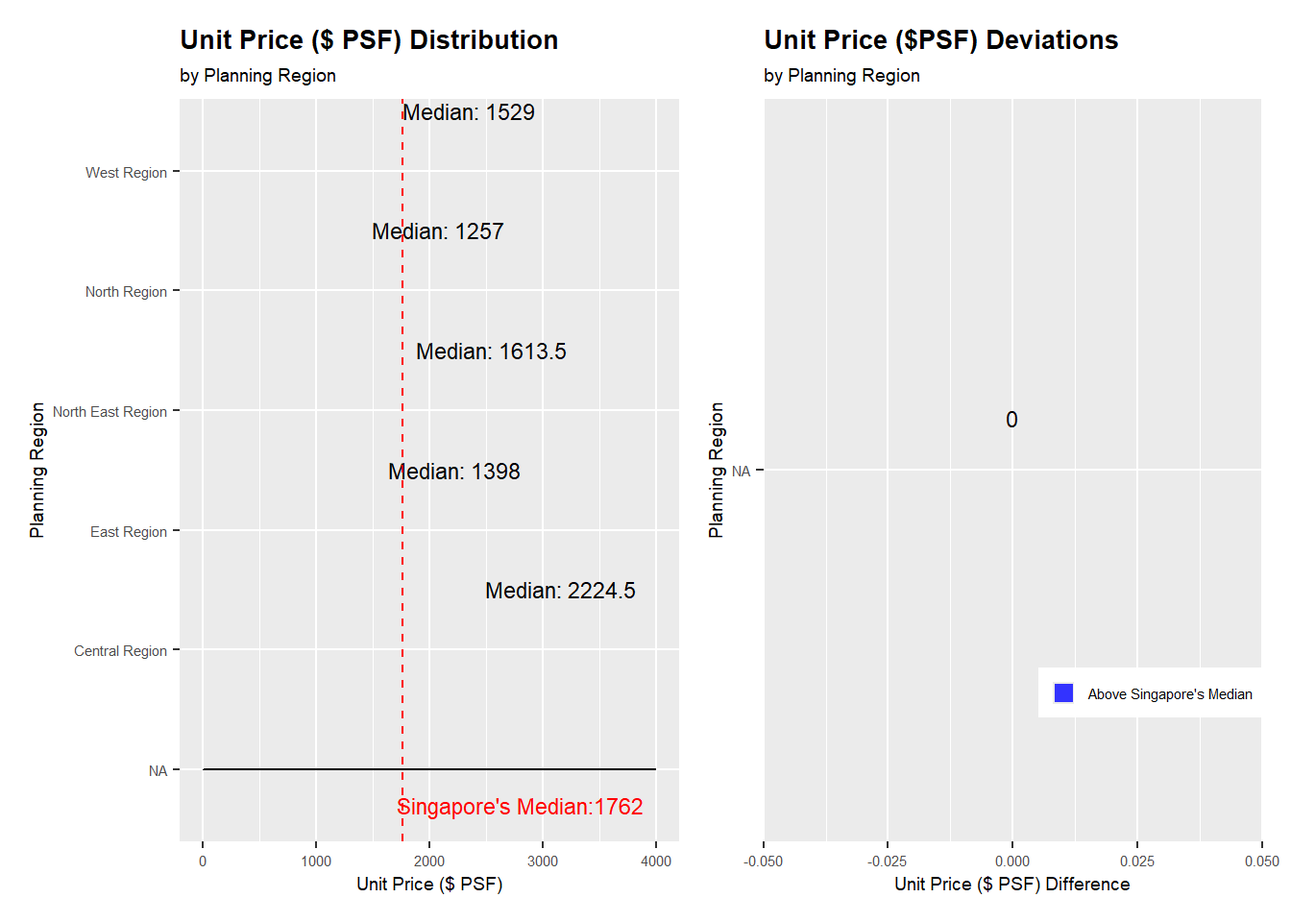
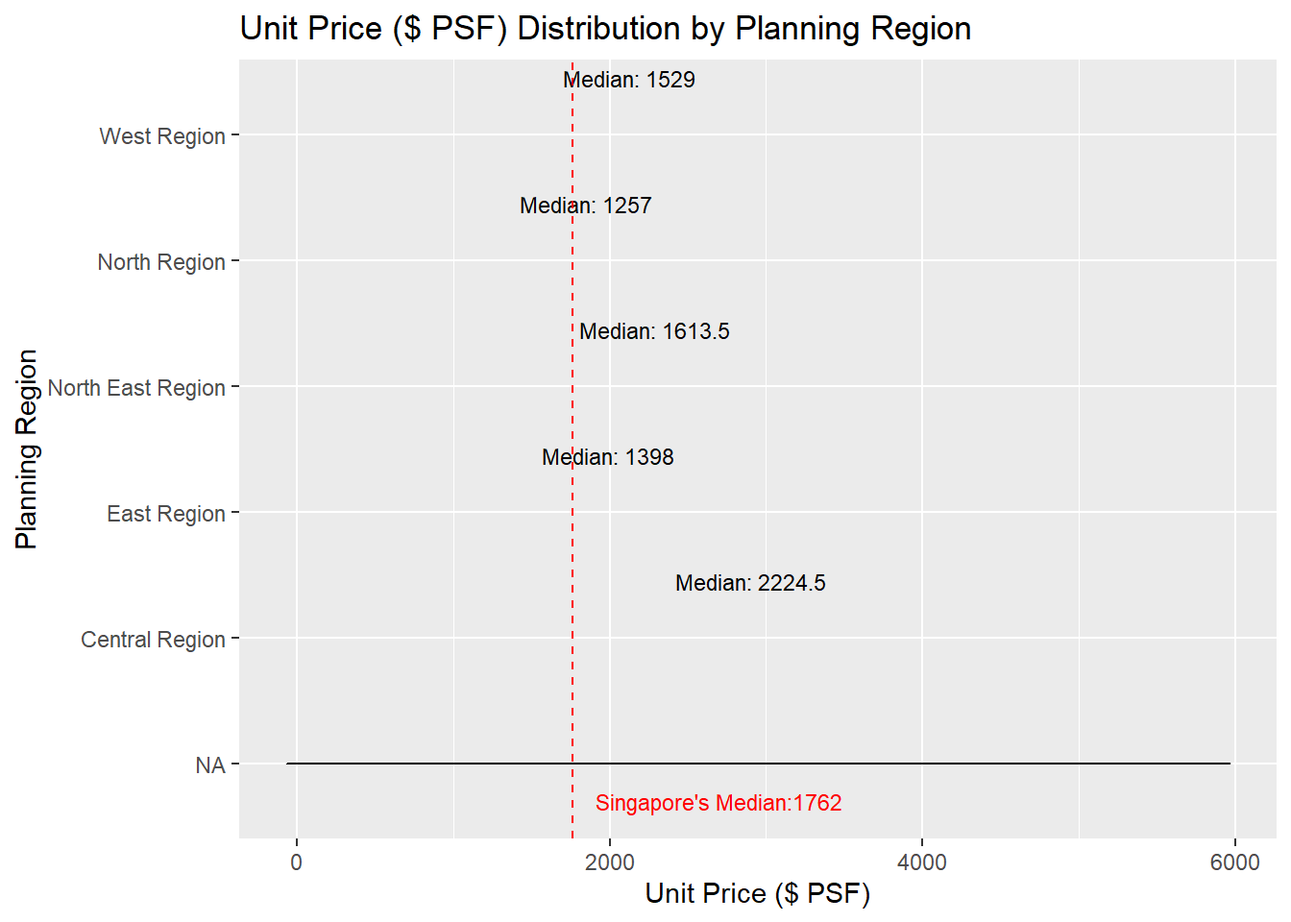
commit

diff --git a/_site/Take-home Exercise/Take-home_Ex02/Take-home_Ex02.html b/_site/Take-home Exercise/Take-home_Ex02/Take-home_Ex02.html
@@ -568,84 +568,71 @@ pre > code.sourceCode > span > a:first-child::before { text-decoration: underlin
 <span id="cb6-13"><a href="#cb6-13" aria-hidden="true" tabindex="-1"></a>                                  <span class="st">"West Region"</span> <span class="ot">=</span> <span class="st">"West"</span></span>
 <span id="cb6-14"><a href="#cb6-14" aria-hidden="true" tabindex="-1"></a>                                  ))</span>
 <span id="cb6-15"><a href="#cb6-15" aria-hidden="true" tabindex="-1"></a></span>
-<span id="cb6-16"><a href="#cb6-16" aria-hidden="true" tabindex="-1"></a><span class="co"># Change order of the Region</span></span>
-<span id="cb6-17"><a href="#cb6-17" aria-hidden="true" tabindex="-1"></a>combined_ds <span class="ot">&lt;-</span> combined_ds <span class="sc">%&gt;%</span></span>
-<span id="cb6-18"><a href="#cb6-18" aria-hidden="true" tabindex="-1"></a>  <span class="fu">mutate</span>(<span class="st">`</span><span class="at">Planning Region</span><span class="st">`</span> <span class="ot">=</span> <span class="fu">factor</span>(<span class="st">`</span><span class="at">Planning Region</span><span class="st">`</span>, <span class="at">levels =</span> median_values<span class="sc">$</span><span class="st">`</span><span class="at">Planning Region</span><span class="st">`</span>[<span class="fu">order</span>(median_values<span class="sc">$</span>median_value)]))</span>
+<span id="cb6-16"><a href="#cb6-16" aria-hidden="true" tabindex="-1"></a>combined_ds <span class="ot">&lt;-</span> combined_ds <span class="sc">%&gt;%</span></span>
+<span id="cb6-17"><a href="#cb6-17" aria-hidden="true" tabindex="-1"></a>  <span class="fu">mutate</span>(<span class="st">`</span><span class="at">Planning Region</span><span class="st">`</span> <span class="ot">=</span> <span class="fu">factor</span>(<span class="st">`</span><span class="at">Planning Region</span><span class="st">`</span>, <span class="at">levels =</span> median_values<span class="sc">$</span><span class="st">`</span><span class="at">Planning Region</span><span class="st">`</span>[<span class="fu">order</span>(median_values<span class="sc">$</span>median_value)]))</span>
+<span id="cb6-18"><a href="#cb6-18" aria-hidden="true" tabindex="-1"></a></span>
 <span id="cb6-19"><a href="#cb6-19" aria-hidden="true" tabindex="-1"></a></span>
-<span id="cb6-20"><a href="#cb6-20" aria-hidden="true" tabindex="-1"></a></span>
-<span id="cb6-21"><a href="#cb6-21" aria-hidden="true" tabindex="-1"></a>p1 <span class="ot">&lt;-</span><span class="fu">ggplot</span>(combined_ds, </span>
-<span id="cb6-22"><a href="#cb6-22" aria-hidden="true" tabindex="-1"></a>       <span class="fu">aes</span>(<span class="at">x =</span> <span class="st">`</span><span class="at">Unit Price ($ PSF)</span><span class="st">`</span>, </span>
-<span id="cb6-23"><a href="#cb6-23" aria-hidden="true" tabindex="-1"></a>           <span class="at">y =</span> <span class="st">`</span><span class="at">Planning Region</span><span class="st">`</span>, </span>
-<span id="cb6-24"><a href="#cb6-24" aria-hidden="true" tabindex="-1"></a>           )) <span class="sc">+</span></span>
-<span id="cb6-25"><a href="#cb6-25" aria-hidden="true" tabindex="-1"></a>   <span class="fu">geom_density_ridges</span>(<span class="at">scale =</span> <span class="fl">0.9</span>,</span>
-<span id="cb6-26"><a href="#cb6-26" aria-hidden="true" tabindex="-1"></a>                       <span class="at">alpha =</span> <span class="fl">0.2</span>, </span>
-<span id="cb6-27"><a href="#cb6-27" aria-hidden="true" tabindex="-1"></a>                       <span class="at">quantile_lines =</span> <span class="cn">TRUE</span>, </span>
-<span id="cb6-28"><a href="#cb6-28" aria-hidden="true" tabindex="-1"></a>                       <span class="at">quantile_fun =</span> <span class="cf">function</span>(x, ...) <span class="fu">median</span>(x)) <span class="sc">+</span></span>
-<span id="cb6-29"><a href="#cb6-29" aria-hidden="true" tabindex="-1"></a>    <span class="fu">geom_text</span>(<span class="at">data =</span> median_values, </span>
-<span id="cb6-30"><a href="#cb6-30" aria-hidden="true" tabindex="-1"></a>            <span class="fu">aes</span>(<span class="at">x =</span> median_value, </span>
-<span id="cb6-31"><a href="#cb6-31" aria-hidden="true" tabindex="-1"></a>                <span class="at">y =</span> <span class="st">`</span><span class="at">Planning Region</span><span class="st">`</span>, </span>
-<span id="cb6-32"><a href="#cb6-32" aria-hidden="true" tabindex="-1"></a>                <span class="at">label =</span> <span class="fu">paste</span>(<span class="st">"Median:"</span>, </span>
-<span id="cb6-33"><a href="#cb6-33" aria-hidden="true" tabindex="-1"></a>                              <span class="fu">round</span>(median_value, <span class="dv">2</span>))),</span>
-<span id="cb6-34"><a href="#cb6-34" aria-hidden="true" tabindex="-1"></a>            <span class="at">hjust =</span> <span class="sc">-</span><span class="fl">0.2</span>, <span class="at">vjust =</span> <span class="sc">-</span><span class="dv">3</span>, <span class="at">color =</span> <span class="st">"black"</span>, <span class="at">size =</span> <span class="dv">3</span>) <span class="sc">+</span></span>
-<span id="cb6-35"><a href="#cb6-35" aria-hidden="true" tabindex="-1"></a>  <span class="fu">labs</span>(<span class="at">title =</span> <span class="st">"Unit Price ($ PSF) Distribution"</span>,</span>
-<span id="cb6-36"><a href="#cb6-36" aria-hidden="true" tabindex="-1"></a>       <span class="at">subtitle =</span> <span class="st">"by Planning Region"</span>,</span>
-<span id="cb6-37"><a href="#cb6-37" aria-hidden="true" tabindex="-1"></a>       <span class="at">x =</span> <span class="st">"Unit Price ($ PSF)"</span>,</span>
-<span id="cb6-38"><a href="#cb6-38" aria-hidden="true" tabindex="-1"></a>       <span class="at">y =</span> <span class="st">"Planning Region"</span>) <span class="sc">+</span></span>
-<span id="cb6-39"><a href="#cb6-39" aria-hidden="true" tabindex="-1"></a>  <span class="fu">geom_vline</span>(<span class="fu">aes</span>(<span class="at">xintercept =</span> <span class="fu">median</span>(<span class="st">`</span><span class="at">Unit Price ($ PSF)</span><span class="st">`</span>)), </span>
-<span id="cb6-40"><a href="#cb6-40" aria-hidden="true" tabindex="-1"></a>             <span class="at">col=</span><span class="st">"red"</span>, </span>
-<span id="cb6-41"><a href="#cb6-41" aria-hidden="true" tabindex="-1"></a>             <span class="at">linewidth=</span><span class="fl">0.5</span>, <span class="at">linetype =</span> <span class="st">"dashed"</span>) <span class="sc">+</span></span>
-<span id="cb6-42"><a href="#cb6-42" aria-hidden="true" tabindex="-1"></a>  <span class="fu">annotate</span>(<span class="st">"text"</span>, </span>
-<span id="cb6-43"><a href="#cb6-43" aria-hidden="true" tabindex="-1"></a>           <span class="at">x=</span><span class="dv">2800</span>, </span>
-<span id="cb6-44"><a href="#cb6-44" aria-hidden="true" tabindex="-1"></a>           <span class="at">y=</span><span class="fl">0.7</span>, </span>
-<span id="cb6-45"><a href="#cb6-45" aria-hidden="true" tabindex="-1"></a>           <span class="at">label=</span><span class="fu">paste0</span>(<span class="st">"Singapore's Median:"</span>,</span>
-<span id="cb6-46"><a href="#cb6-46" aria-hidden="true" tabindex="-1"></a>                        <span class="fu">median</span>(combined_ds<span class="sc">$</span><span class="st">`</span><span class="at">Unit Price ($ PSF)</span><span class="st">`</span>)), </span>
-<span id="cb6-47"><a href="#cb6-47" aria-hidden="true" tabindex="-1"></a>           <span class="at">size=</span><span class="dv">3</span>, <span class="at">color=</span><span class="st">"red"</span>) <span class="sc">+</span></span>
-<span id="cb6-48"><a href="#cb6-48" aria-hidden="true" tabindex="-1"></a><span class="fu">scale_x_continuous</span>(<span class="at">name =</span> <span class="st">"Unit Price ($ PSF) difference"</span>,<span class="at">breaks =</span> <span class="fu">c</span>(<span class="dv">0</span>,<span class="dv">1000</span>,<span class="dv">2000</span>,<span class="dv">3000</span>,<span class="dv">4000</span>,<span class="dv">5000</span>,<span class="dv">6000</span>)) <span class="sc">+</span></span>
-<span id="cb6-49"><a href="#cb6-49" aria-hidden="true" tabindex="-1"></a>  <span class="fu">guides</span>(<span class="at">fill =</span> <span class="cn">FALSE</span>) <span class="sc">+</span></span>
-<span id="cb6-50"><a href="#cb6-50" aria-hidden="true" tabindex="-1"></a>  <span class="fu">xlim</span>(<span class="dv">0</span>, <span class="dv">4000</span>) <span class="sc">+</span></span>
-<span id="cb6-51"><a href="#cb6-51" aria-hidden="true" tabindex="-1"></a>    <span class="fu">theme</span>(<span class="at">legend.position =</span> <span class="st">"None"</span>, <span class="at">text =</span> <span class="fu">element_text</span>(<span class="at">size =</span> <span class="dv">8</span>), <span class="at">plot.title =</span> <span class="fu">element_text</span>(<span class="at">size =</span> <span class="dv">10</span>, <span class="at">face =</span> <span class="st">"bold"</span>))  <span class="sc">+</span></span>
-<span id="cb6-52"><a href="#cb6-52" aria-hidden="true" tabindex="-1"></a>  <span class="fu">theme</span>(<span class="at">text =</span> <span class="fu">element_text</span>(<span class="at">size =</span> <span class="dv">7</span>),</span>
-<span id="cb6-53"><a href="#cb6-53" aria-hidden="true" tabindex="-1"></a>        <span class="at">legend.title =</span> <span class="fu">element_blank</span>(),</span>
-<span id="cb6-54"><a href="#cb6-54" aria-hidden="true" tabindex="-1"></a>        <span class="at">legend.position =</span> <span class="fu">c</span>(<span class="fl">0.8</span>, <span class="fl">0.2</span>),</span>
-<span id="cb6-55"><a href="#cb6-55" aria-hidden="true" tabindex="-1"></a>        <span class="at">legend.key.size =</span> <span class="fu">unit</span>(<span class="fl">0.3</span>, <span class="st">'cm'</span>),</span>
-<span id="cb6-56"><a href="#cb6-56" aria-hidden="true" tabindex="-1"></a>        <span class="at">legend.key.height =</span> <span class="fu">unit</span>(<span class="fl">0.3</span>, <span class="st">'cm'</span>),</span>
-<span id="cb6-57"><a href="#cb6-57" aria-hidden="true" tabindex="-1"></a>        <span class="at">legend.key.width =</span> <span class="fu">unit</span>(<span class="fl">0.3</span>, <span class="st">'cm'</span>))</span>
-<span id="cb6-58"><a href="#cb6-58" aria-hidden="true" tabindex="-1"></a></span>
-<span id="cb6-59"><a href="#cb6-59" aria-hidden="true" tabindex="-1"></a><span class="co"># Classifying the Median into Above and Below Singapore's Median</span></span>
-<span id="cb6-60"><a href="#cb6-60" aria-hidden="true" tabindex="-1"></a>df_Aavg <span class="ot">&lt;-</span> combined_ds <span class="sc">%&gt;%</span></span>
-<span id="cb6-61"><a href="#cb6-61" aria-hidden="true" tabindex="-1"></a>  <span class="fu">group_by</span>(<span class="st">`</span><span class="at">Planning Region</span><span class="st">`</span>) <span class="sc">%&gt;%</span></span>
-<span id="cb6-62"><a href="#cb6-62" aria-hidden="true" tabindex="-1"></a>  <span class="fu">summarise</span>(<span class="at">avg_Aprice =</span> <span class="fu">median</span>(<span class="st">`</span><span class="at">Unit Price ($ PSF)</span><span class="st">`</span>))</span>
-<span id="cb6-63"><a href="#cb6-63" aria-hidden="true" tabindex="-1"></a></span>
-<span id="cb6-64"><a href="#cb6-64" aria-hidden="true" tabindex="-1"></a>p_z <span class="ot">&lt;-</span> <span class="fu">round</span>((df_Aavg<span class="sc">$</span>avg_Aprice <span class="sc">-</span> <span class="fu">median</span>(combined_ds<span class="sc">$</span><span class="st">`</span><span class="at">Unit Price ($ PSF)</span><span class="st">`</span>)), <span class="dv">2</span>)</span>
-<span id="cb6-65"><a href="#cb6-65" aria-hidden="true" tabindex="-1"></a>df_Aavg<span class="sc">$</span>p_ztype <span class="ot">&lt;-</span> <span class="fu">ifelse</span>(p_z <span class="sc">&lt;</span> <span class="dv">0</span>, <span class="st">"below"</span>, <span class="st">"above"</span>)</span>
-<span id="cb6-66"><a href="#cb6-66" aria-hidden="true" tabindex="-1"></a>df_Aavg <span class="ot">&lt;-</span> df_Aavg[<span class="fu">order</span>(p_z), ]</span>
-<span id="cb6-67"><a href="#cb6-67" aria-hidden="true" tabindex="-1"></a></span>
-<span id="cb6-68"><a href="#cb6-68" aria-hidden="true" tabindex="-1"></a>df_Aavg<span class="sc">$</span><span class="st">`</span><span class="at">Planning Region</span><span class="st">`</span> <span class="ot">&lt;-</span> <span class="fu">factor</span>(df_Aavg<span class="sc">$</span><span class="st">`</span><span class="at">Planning Region</span><span class="st">`</span>, <span class="at">levels =</span> df_Aavg<span class="sc">$</span><span class="st">`</span><span class="at">Planning Region</span><span class="st">`</span>)</span>
-<span id="cb6-69"><a href="#cb6-69" aria-hidden="true" tabindex="-1"></a></span>
-<span id="cb6-70"><a href="#cb6-70" aria-hidden="true" tabindex="-1"></a>p2 <span class="ot">&lt;-</span> <span class="fu">ggplot</span>(df_Aavg, <span class="fu">aes</span>(<span class="at">x =</span> <span class="st">`</span><span class="at">Planning Region</span><span class="st">`</span>, <span class="at">y =</span> p_z, <span class="at">label =</span> p_z)) <span class="sc">+</span></span>
-<span id="cb6-71"><a href="#cb6-71" aria-hidden="true" tabindex="-1"></a>  <span class="fu">geom_bar</span>(<span class="at">stat =</span> <span class="st">"identity"</span>, <span class="fu">aes</span>(<span class="at">fill =</span> <span class="fu">factor</span>(p_ztype)), <span class="at">position =</span> <span class="fu">position_dodge2</span>(<span class="at">width =</span> <span class="dv">2</span>), <span class="at">width =</span> <span class="fl">0.5</span>) <span class="sc">+</span></span>
-<span id="cb6-72"><a href="#cb6-72" aria-hidden="true" tabindex="-1"></a>  <span class="fu">scale_fill_manual</span>(<span class="at">name =</span> <span class="st">"Price Deviation"</span>, <span class="at">labels =</span> <span class="fu">c</span>(<span class="st">"Above Singapore's Median"</span>, <span class="st">"Below Singapore's Median"</span>), <span class="at">values =</span> <span class="fu">c</span>(<span class="st">"below"</span> <span class="ot">=</span> <span class="st">"#FF6666"</span>, <span class="st">"above"</span> <span class="ot">=</span> <span class="st">"#3333FF"</span>)) <span class="sc">+</span></span>
-<span id="cb6-73"><a href="#cb6-73" aria-hidden="true" tabindex="-1"></a>  <span class="fu">labs</span>(<span class="at">title =</span> <span class="st">"Unit Price ($PSF) Deviations"</span>, <span class="at">y =</span> <span class="st">"Unit Price ($ PSF) Difference"</span>, <span class="at">subtitle =</span> <span class="st">"by Planning Region"</span>) <span class="sc">+</span></span>
-<span id="cb6-74"><a href="#cb6-74" aria-hidden="true" tabindex="-1"></a>  <span class="fu">coord_flip</span>() <span class="sc">+</span></span>
-<span id="cb6-75"><a href="#cb6-75" aria-hidden="true" tabindex="-1"></a>  <span class="fu">theme</span>(<span class="at">legend.position =</span> <span class="st">"None"</span>, <span class="at">text =</span> <span class="fu">element_text</span>(<span class="at">size =</span> <span class="dv">8</span>), <span class="at">plot.title =</span> <span class="fu">element_text</span>(<span class="at">size =</span> <span class="dv">10</span>, <span class="at">face =</span> <span class="st">"bold"</span>))  <span class="sc">+</span></span>
-<span id="cb6-76"><a href="#cb6-76" aria-hidden="true" tabindex="-1"></a>  <span class="fu">theme</span>(<span class="at">text =</span> <span class="fu">element_text</span>(<span class="at">size =</span> <span class="dv">7</span>),</span>
-<span id="cb6-77"><a href="#cb6-77" aria-hidden="true" tabindex="-1"></a>        <span class="at">legend.title =</span> <span class="fu">element_blank</span>(),</span>
-<span id="cb6-78"><a href="#cb6-78" aria-hidden="true" tabindex="-1"></a>        <span class="at">legend.position =</span> <span class="fu">c</span>(<span class="fl">0.78</span>, <span class="fl">0.2</span>),</span>
-<span id="cb6-79"><a href="#cb6-79" aria-hidden="true" tabindex="-1"></a>        <span class="at">legend.key.size =</span> <span class="fu">unit</span>(<span class="fl">0.3</span>, <span class="st">'cm'</span>),</span>
-<span id="cb6-80"><a href="#cb6-80" aria-hidden="true" tabindex="-1"></a>        <span class="at">legend.key.height =</span> <span class="fu">unit</span>(<span class="fl">0.3</span>, <span class="st">'cm'</span>),</span>
-<span id="cb6-81"><a href="#cb6-81" aria-hidden="true" tabindex="-1"></a>        <span class="at">legend.key.width =</span> <span class="fu">unit</span>(<span class="fl">0.3</span>, <span class="st">'cm'</span>)) <span class="sc">+</span></span>
-<span id="cb6-82"><a href="#cb6-82" aria-hidden="true" tabindex="-1"></a>  <span class="fu">geom_text</span>(<span class="fu">aes</span>(<span class="at">x =</span> <span class="st">`</span><span class="at">Planning Region</span><span class="st">`</span>, </span>
-<span id="cb6-83"><a href="#cb6-83" aria-hidden="true" tabindex="-1"></a>                <span class="at">y =</span> p_z, </span>
-<span id="cb6-84"><a href="#cb6-84" aria-hidden="true" tabindex="-1"></a>                <span class="at">label =</span> <span class="fu">abs</span>(p_z)),</span>
-<span id="cb6-85"><a href="#cb6-85" aria-hidden="true" tabindex="-1"></a>            <span class="at">hjust =</span> <span class="fl">0.5</span>,</span>
-<span id="cb6-86"><a href="#cb6-86" aria-hidden="true" tabindex="-1"></a>            <span class="at">vjust =</span> <span class="sc">-</span><span class="fl">2.5</span>,</span>
-<span id="cb6-87"><a href="#cb6-87" aria-hidden="true" tabindex="-1"></a>            <span class="at">size =</span> <span class="dv">3</span>)</span>
-<span id="cb6-88"><a href="#cb6-88" aria-hidden="true" tabindex="-1"></a></span>
-<span id="cb6-89"><a href="#cb6-89" aria-hidden="true" tabindex="-1"></a>p1<span class="sc">+</span>p2</span></code><button title="Copy to Clipboard" class="code-copy-button"><i class="bi"></i></button></pre></div>
+<span id="cb6-20"><a href="#cb6-20" aria-hidden="true" tabindex="-1"></a><span class="fu">ggplot</span>(combined_ds, </span>
+<span id="cb6-21"><a href="#cb6-21" aria-hidden="true" tabindex="-1"></a>       <span class="fu">aes</span>(<span class="at">x =</span> <span class="st">`</span><span class="at">Unit Price ($ PSF)</span><span class="st">`</span>, </span>
+<span id="cb6-22"><a href="#cb6-22" aria-hidden="true" tabindex="-1"></a>           <span class="at">y =</span> <span class="st">`</span><span class="at">Planning Region</span><span class="st">`</span>,</span>
+<span id="cb6-23"><a href="#cb6-23" aria-hidden="true" tabindex="-1"></a>           <span class="at">fill =</span> <span class="st">`</span><span class="at">Planning Region</span><span class="st">`</span>)) <span class="sc">+</span></span>
+<span id="cb6-24"><a href="#cb6-24" aria-hidden="true" tabindex="-1"></a>   <span class="fu">geom_density_ridges</span>(<span class="at">alpha =</span> <span class="fl">0.2</span>, <span class="at">quantile_lines =</span> <span class="cn">TRUE</span>, <span class="at">quantile_fun =</span> <span class="cf">function</span>(x, ...) <span class="fu">median</span>(x))  <span class="sc">+</span></span>
+<span id="cb6-25"><a href="#cb6-25" aria-hidden="true" tabindex="-1"></a>  <span class="fu">geom_text</span>(<span class="at">data =</span> median_values, </span>
+<span id="cb6-26"><a href="#cb6-26" aria-hidden="true" tabindex="-1"></a>            <span class="fu">aes</span>(<span class="at">x =</span> median_value, </span>
+<span id="cb6-27"><a href="#cb6-27" aria-hidden="true" tabindex="-1"></a>                <span class="at">y =</span> <span class="st">`</span><span class="at">Planning Region</span><span class="st">`</span>, </span>
+<span id="cb6-28"><a href="#cb6-28" aria-hidden="true" tabindex="-1"></a>                <span class="at">label =</span> <span class="fu">paste</span>(<span class="st">"Median:"</span>, <span class="fu">round</span>(median_value, <span class="dv">2</span>))),</span>
+<span id="cb6-29"><a href="#cb6-29" aria-hidden="true" tabindex="-1"></a>            <span class="at">hjust =</span> <span class="sc">-</span><span class="fl">0.2</span>, </span>
+<span id="cb6-30"><a href="#cb6-30" aria-hidden="true" tabindex="-1"></a>            <span class="at">vjust =</span> <span class="sc">-</span><span class="fl">2.8</span>, </span>
+<span id="cb6-31"><a href="#cb6-31" aria-hidden="true" tabindex="-1"></a>            <span class="at">color =</span> <span class="st">"black"</span>, </span>
+<span id="cb6-32"><a href="#cb6-32" aria-hidden="true" tabindex="-1"></a>            <span class="at">size =</span> <span class="dv">3</span>) <span class="sc">+</span></span>
+<span id="cb6-33"><a href="#cb6-33" aria-hidden="true" tabindex="-1"></a>  <span class="fu">labs</span>(<span class="at">title =</span> <span class="st">"Unit Price ($ PSF) Distribution by Planning Region"</span>,</span>
+<span id="cb6-34"><a href="#cb6-34" aria-hidden="true" tabindex="-1"></a>       <span class="at">x =</span> <span class="st">"Unit Price ($ PSF)"</span>,</span>
+<span id="cb6-35"><a href="#cb6-35" aria-hidden="true" tabindex="-1"></a>       <span class="at">y =</span> <span class="st">"Planning Region"</span>) <span class="sc">+</span></span>
+<span id="cb6-36"><a href="#cb6-36" aria-hidden="true" tabindex="-1"></a>  <span class="fu">geom_vline</span>(<span class="fu">aes</span>(<span class="at">xintercept =</span> <span class="fu">median</span>(<span class="st">`</span><span class="at">Unit Price ($ PSF)</span><span class="st">`</span>)), <span class="at">col=</span><span class="st">"red"</span>, <span class="at">linewidth=</span><span class="fl">0.5</span>, <span class="at">linetype =</span> <span class="st">"dashed"</span>) <span class="sc">+</span></span>
+<span id="cb6-37"><a href="#cb6-37" aria-hidden="true" tabindex="-1"></a>  <span class="fu">annotate</span>(<span class="st">"text"</span>, <span class="at">x=</span><span class="dv">2700</span>, <span class="at">y=</span><span class="fl">0.7</span>, <span class="at">label=</span><span class="fu">paste0</span>(<span class="st">"Singapore's Median:"</span>,<span class="fu">median</span>(combined_ds<span class="sc">$</span><span class="st">`</span><span class="at">Unit Price ($ PSF)</span><span class="st">`</span>)), </span>
+<span id="cb6-38"><a href="#cb6-38" aria-hidden="true" tabindex="-1"></a>           <span class="at">size=</span><span class="dv">3</span>, <span class="at">color=</span><span class="st">"red"</span>) <span class="sc">+</span></span>
+<span id="cb6-39"><a href="#cb6-39" aria-hidden="true" tabindex="-1"></a>   <span class="fu">guides</span>(<span class="at">fill =</span> <span class="cn">FALSE</span>)  <span class="co"># Remove legend for Planning Region</span></span></code><button title="Copy to Clipboard" class="code-copy-button"><i class="bi"></i></button></pre></div>
 <div class="cell-output-display">
 <div>
 <figure class="figure">
 <p><img src="Take-home_Ex02_files/figure-html/unnamed-chunk-7-1.png" class="img-fluid figure-img" width="672"></p>
+</figure>
+</div>
+</div>
+</div>
+<div class="cell">
+<div class="sourceCode cell-code" id="cb7"><pre class="sourceCode r code-with-copy"><code class="sourceCode r"><span id="cb7-1"><a href="#cb7-1" aria-hidden="true" tabindex="-1"></a><span class="co"># Classifying the Median into Above and Below Singapore's Median</span></span>
+<span id="cb7-2"><a href="#cb7-2" aria-hidden="true" tabindex="-1"></a>df_Aavg <span class="ot">&lt;-</span> combined_ds <span class="sc">%&gt;%</span></span>
+<span id="cb7-3"><a href="#cb7-3" aria-hidden="true" tabindex="-1"></a>  <span class="fu">group_by</span>(<span class="st">`</span><span class="at">Planning Region</span><span class="st">`</span>) <span class="sc">%&gt;%</span></span>
+<span id="cb7-4"><a href="#cb7-4" aria-hidden="true" tabindex="-1"></a>  <span class="fu">summarise</span>(<span class="at">avg_Aprice =</span> <span class="fu">median</span>(<span class="st">`</span><span class="at">Unit Price ($ PSF)</span><span class="st">`</span>))</span>
+<span id="cb7-5"><a href="#cb7-5" aria-hidden="true" tabindex="-1"></a>df_Aavg<span class="sc">$</span>p_z <span class="ot">&lt;-</span> <span class="fu">round</span>((df_Aavg<span class="sc">$</span>avg_Aprice <span class="sc">-</span> <span class="fu">median</span>(combined_ds<span class="sc">$</span><span class="st">`</span><span class="at">Unit Price ($ PSF)</span><span class="st">`</span>)), <span class="dv">2</span>)</span>
+<span id="cb7-6"><a href="#cb7-6" aria-hidden="true" tabindex="-1"></a>df_Aavg<span class="sc">$</span>p_ztype <span class="ot">&lt;-</span> <span class="fu">ifelse</span>(df_Aavg<span class="sc">$</span>p_z <span class="sc">&lt;</span> <span class="dv">0</span>, <span class="st">"below"</span>, <span class="st">"above"</span>)</span>
+<span id="cb7-7"><a href="#cb7-7" aria-hidden="true" tabindex="-1"></a>df_Aavg <span class="ot">&lt;-</span> df_Aavg[<span class="fu">order</span>(df_Aavg<span class="sc">$</span>p_z), ]</span>
+<span id="cb7-8"><a href="#cb7-8" aria-hidden="true" tabindex="-1"></a>df_Aavg<span class="sc">$</span><span class="st">`</span><span class="at">Planning Region</span><span class="st">`</span> <span class="ot">&lt;-</span> <span class="fu">factor</span>(df_Aavg<span class="sc">$</span><span class="st">`</span><span class="at">Planning Region</span><span class="st">`</span>, <span class="at">levels =</span> df_Aavg<span class="sc">$</span><span class="st">`</span><span class="at">Planning Region</span><span class="st">`</span>)</span>
+<span id="cb7-9"><a href="#cb7-9" aria-hidden="true" tabindex="-1"></a></span>
+<span id="cb7-10"><a href="#cb7-10" aria-hidden="true" tabindex="-1"></a>p2 <span class="ot">&lt;-</span> <span class="fu">ggplot</span>(df_Aavg, <span class="fu">aes</span>(<span class="at">x =</span> <span class="st">`</span><span class="at">Planning Region</span><span class="st">`</span>, <span class="at">y =</span> p_z, <span class="at">label =</span> p_z)) <span class="sc">+</span></span>
+<span id="cb7-11"><a href="#cb7-11" aria-hidden="true" tabindex="-1"></a>  <span class="fu">geom_bar</span>(<span class="at">stat =</span> <span class="st">"identity"</span>, <span class="fu">aes</span>(<span class="at">fill =</span> p_ztype), <span class="at">position =</span> <span class="fu">position_dodge2</span>(<span class="at">width =</span> <span class="dv">2</span>), <span class="at">width =</span> <span class="fl">0.8</span>) <span class="sc">+</span></span>
+<span id="cb7-12"><a href="#cb7-12" aria-hidden="true" tabindex="-1"></a>  <span class="fu">scale_fill_manual</span>(<span class="at">name =</span> <span class="st">"Average Price"</span>, <span class="at">labels =</span> <span class="fu">c</span>(<span class="st">"Above Singapore's Median"</span>, <span class="st">"Below Singapore's Median"</span>), <span class="at">values =</span> <span class="fu">c</span>(<span class="st">"below"</span> <span class="ot">=</span> <span class="st">"#C83E4D"</span>, <span class="st">"above"</span> <span class="ot">=</span> <span class="st">"#4A5859"</span>)) <span class="sc">+</span></span>
+<span id="cb7-13"><a href="#cb7-13" aria-hidden="true" tabindex="-1"></a>  <span class="fu">labs</span>(<span class="at">title =</span> <span class="st">"Unit Price ($PSF) Deviations"</span>, <span class="at">y =</span> <span class="st">""</span>, <span class="at">subtitle =</span> <span class="st">"by Planning Region"</span>) <span class="sc">+</span></span>
+<span id="cb7-14"><a href="#cb7-14" aria-hidden="true" tabindex="-1"></a>  <span class="fu">coord_flip</span>() <span class="sc">+</span></span>
+<span id="cb7-15"><a href="#cb7-15" aria-hidden="true" tabindex="-1"></a>  <span class="fu">theme</span>(<span class="at">legend.position =</span> <span class="st">"None"</span>, <span class="at">text =</span> <span class="fu">element_text</span>(<span class="at">size =</span> <span class="dv">8</span>), <span class="at">plot.title =</span> <span class="fu">element_text</span>(<span class="at">size =</span> <span class="dv">10</span>, <span class="at">face =</span> <span class="st">"bold"</span>))  <span class="sc">+</span></span>
+<span id="cb7-16"><a href="#cb7-16" aria-hidden="true" tabindex="-1"></a>  <span class="fu">theme</span>(<span class="at">text =</span> <span class="fu">element_text</span>(<span class="at">size =</span> <span class="dv">7</span>),</span>
+<span id="cb7-17"><a href="#cb7-17" aria-hidden="true" tabindex="-1"></a>        <span class="at">legend.title =</span> <span class="fu">element_blank</span>(),</span>
+<span id="cb7-18"><a href="#cb7-18" aria-hidden="true" tabindex="-1"></a>        <span class="at">legend.position =</span> <span class="fu">c</span>(<span class="fl">0.8</span>, <span class="fl">0.2</span>),</span>
+<span id="cb7-19"><a href="#cb7-19" aria-hidden="true" tabindex="-1"></a>        <span class="at">legend.key.size =</span> <span class="fu">unit</span>(<span class="fl">0.3</span>, <span class="st">'cm'</span>),</span>
+<span id="cb7-20"><a href="#cb7-20" aria-hidden="true" tabindex="-1"></a>        <span class="at">legend.key.height =</span> <span class="fu">unit</span>(<span class="fl">0.3</span>, <span class="st">'cm'</span>),</span>
+<span id="cb7-21"><a href="#cb7-21" aria-hidden="true" tabindex="-1"></a>        <span class="at">legend.key.width =</span> <span class="fu">unit</span>(<span class="fl">0.3</span>, <span class="st">'cm'</span>)) <span class="sc">+</span></span>
+<span id="cb7-22"><a href="#cb7-22" aria-hidden="true" tabindex="-1"></a>  <span class="fu">geom_text</span>(<span class="fu">aes</span>(<span class="at">x =</span> <span class="st">`</span><span class="at">Planning Region</span><span class="st">`</span>, </span>
+<span id="cb7-23"><a href="#cb7-23" aria-hidden="true" tabindex="-1"></a>                <span class="at">y =</span> df_Aavg<span class="sc">$</span>p_z, </span>
+<span id="cb7-24"><a href="#cb7-24" aria-hidden="true" tabindex="-1"></a>                <span class="at">label =</span> <span class="fu">abs</span>(df_Aavg<span class="sc">$</span>p_z)),</span>
+<span id="cb7-25"><a href="#cb7-25" aria-hidden="true" tabindex="-1"></a>            <span class="at">hjust =</span> <span class="fl">0.5</span>,</span>
+<span id="cb7-26"><a href="#cb7-26" aria-hidden="true" tabindex="-1"></a>            <span class="at">vjust =</span> <span class="sc">-</span><span class="fl">3.4</span>,</span>
+<span id="cb7-27"><a href="#cb7-27" aria-hidden="true" tabindex="-1"></a>            <span class="at">size =</span> <span class="dv">3</span>)</span>
+<span id="cb7-28"><a href="#cb7-28" aria-hidden="true" tabindex="-1"></a>p2</span></code><button title="Copy to Clipboard" class="code-copy-button"><i class="bi"></i></button></pre></div>
+<div class="cell-output-display">
+<div>
+<figure class="figure">
+<p><img src="Take-home_Ex02_files/figure-html/unnamed-chunk-8-1.png" class="img-fluid figure-img" width="672"></p>
 </figure>
 </div>
 </div>
